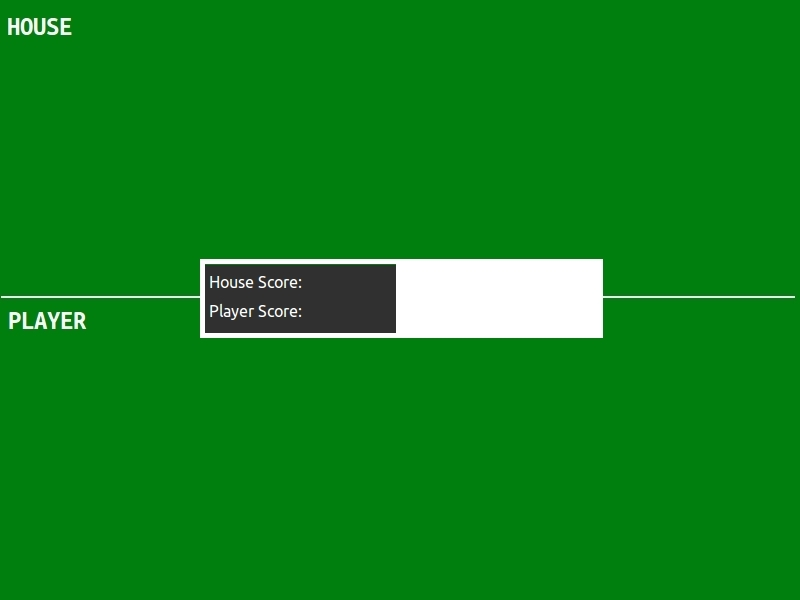
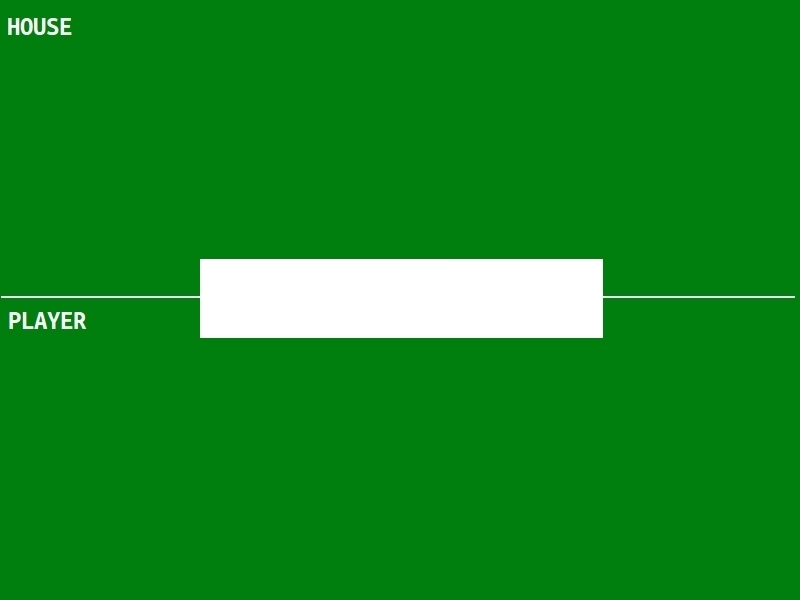
poker - finalized betting ui

Changed region(s): [[0.25, 0.42, 0.5, 0.57]]

diff --git a/Poker/Poker.java b/Poker/Poker.java
@@ -2,27 +2,28 @@ import javax.swing.*;
 import java.awt.*;
 import java.awt.event.*;
 
-public class Poker extends JPanel implements MouseListener,ActionListener{
+public class Poker extends JPanel implements MouseListener{
 
 	static final long serialVersionUID = 1;
 
 	private ImageIcon background = new ImageIcon(getClass().getResource("images/background.jpg"));
-	private ImageIcon b_ride = new ImageIcon(getClass().getResource("images/hit.jpg"));
-	private ImageIcon b_fold = new ImageIcon(getClass().getResource("images/stay.jpg"));
+	private ImageIcon b_ride = new ImageIcon(getClass().getResource("images/ride.jpg"));
+	private ImageIcon b_fold = new ImageIcon(getClass().getResource("images/fold.jpg"));
 
+	private ImageIcon b_rules = new ImageIcon(getClass().getResource("images/b_rules.jpg"));
+	private ImageIcon overlay = new ImageIcon(getClass().getResource("images/rules.png"));
 	private ImageIcon b_start = new ImageIcon(getClass().getResource("images/start.jpg"));
-	private ImageIcon b_win = new ImageIcon(getClass().getResource("images/win.jpg"));
-	private ImageIcon b_lose = new ImageIcon(getClass().getResource("images/lose.jpg"));
+	private ImageIcon b_again = new ImageIcon(getClass().getResource("images/playagain.jpg"));
 
 	Deck deck = new Deck();
 	Hand player = new Hand(true);
 	Hand house = new Hand(false);
-	boolean winner = false, stay = false;
+	boolean winner = false;
 	boolean start_active = true; //determine if start button is active
+	boolean rules = false; //for toggling rules overlay
 	int cash = 100,
-		ante = 10,
+		ante = 0,
 		call = 0;
-	Timer t;
 
 	Poker(){
 		player.setDeck(deck);
@@ -31,41 +32,27 @@ public class Poker extends JPanel implements MouseListener,ActionListener{
 		setSize(800,600);
 		addMouseListener(this);
 		setVisible(true);
-
-		t = new Timer(800,this);
 	}
 
 	public void paintComponent(Graphics g){
 		background.paintIcon(this,g,0,0);
 		player.paint(this,g,false);
-		house.paint(this,g,!stay);
-
-		//print scores at ~ 335,270 and 335,300
-		g.setColor(Color.WHITE);
-		g.setFont(new Font(Font.SANS_SERIF,Font.BOLD,18));
-		g.drawString(player.getScore()+"",335,320);
-		if(stay)
-			g.drawString(house.getScore()+"",335,290);
-		else
-			g.drawString("???",335,290);
+		house.paint(this,g,!winner);
 
 		//print cash
 		g.setFont(new Font(Font.SANS_SERIF,Font.BOLD,24));
+		g.setColor(Color.BLACK);
 		g.drawString("Cash: $"+cash,20,580);
 		g.drawString("Ante: $"+ante,300,580);
 		g.drawString("Call: $"+call,580,580);
 
-		//if game is won, print result
+		b_rules.paintIcon(this,g,205,265);
+		if(rules)
+			overlay.paintIcon(this,g,0,0);
+
+		//if hand is finished, print play again button
 		if(winner){
-			if(player.getScore() > 21 || player.getScore() == house.getScore() ||
-					(player.getScore() < house.getScore() && house.getScore() <= 21)){
-				b_lose.paintIcon(this,g,400,265);
-				finish(false);
-			}
-			else{
-				b_win.paintIcon(this,g,400,265);
-				finish(true);
-			}
+			b_again.paintIcon(this,g,400,265);
 		}
 		else{
 			//print buttons at 400,265 and 500,265
@@ -80,6 +67,7 @@ public class Poker extends JPanel implements MouseListener,ActionListener{
 	//call this instead of start() to start
 	private void bet(){
 		boolean valid = false;
+
 		if(cash > 0){
 			while(!valid){
 				try{
@@ -97,6 +85,8 @@ public class Poker extends JPanel implements MouseListener,ActionListener{
 						"Invalid",JOptionPane.OK_CANCEL_OPTION);
 				}
 			}
+
+			cash -= ante;
 		}
 		else{
 			JOptionPane.showConfirmDialog(this,"You are out of money. Please get lost :-)",
@@ -106,41 +96,40 @@ public class Poker extends JPanel implements MouseListener,ActionListener{
 		start();
 	}
 
-	private void start(){
-		t.start();
-		
+	private void start(){		
 		winner = false;
-		stay = false;
 
 		deck.shuffle();
 
 		player.reset();
 		house.reset();
 
-		player.drawCard();
-		player.drawCard();
-		player.drawCard();
-		house.drawCard();
-		house.drawCard();
-		house.drawCard();
+		player.drawCard(3);
+		house.drawCard(3);
 
-		System.out.println(player.getScore());
+		//System.out.println(player.getScore());
 
 		repaint();
 	}
 
-	//player is true if the player won
-	private void finish(boolean p){
-		if(p)
-			cash += ante;
-		else
-			cash -= ante;
-		ante = 0;
-		t.stop();
-	}
+	private void finish(){
+		winner = true;
+		if(house.getScore() < 12){
+			ante = 2 * ante;
+		}
+		else if(player.getScore() == house.getScore()){
 
-	public void actionPerformed(ActionEvent e){
-		repaint();
+		}
+		else if(player.getScore() > house.getScore()){
+			ante = ante * 2;
+			call = call * 2;
+		}
+		else if(player.getScore() < house.getScore()){
+			ante = 0;
+			call = 0;
+		}
+		//else.. hands are equal, so do nothing.. ante and call will be 
+		//returned when you restart
 	}
 
 	public void mousePressed(MouseEvent e){
@@ -153,33 +142,47 @@ public class Poker extends JPanel implements MouseListener,ActionListener{
 			bet();
 			start_active = false;
 		}
-		//clicked hit
+		//clicked ride
 		else if(e.getX() > 400 &&
 				e.getX() < (400 + b_ride.getIconWidth()) &&
 				e.getY() > 265 &&
 				e.getY() < (265 + b_ride.getIconHeight())&&
-				!stay){
-			player.drawCard();
-			if(player.getScore() > 21)
-				stay = true;
+				!winner){
+			call = ante;
+			cash -= call;
+			finish();
 			repaint();
 		}
-		//clicked stay
+		//clicked fold
 		else if(e.getX() > 500 &&
 				e.getX() < (500 + b_fold.getIconWidth()) &&
 				e.getY() > 265 &&
 				e.getY() < (265 + b_fold.getIconHeight())&&
-				!stay){
-			stay = true;
+				!winner){
+			ante = 0;
+			finish();
 			repaint();
 		}
-		//clicked win/lose
+		//clicked play again
 		else if(e.getX() > 400 &&
-				e.getX() < (400 + b_win.getIconWidth()) &&
+				e.getX() < (400 + b_again.getIconWidth()) &&
 				e.getY() > 265 &&
-				e.getY() < (265 + b_win.getIconHeight())&&
+				e.getY() < (265 + b_again.getIconHeight())&&
 				winner){
+			cash += ante;
+			ante = 0;
+			cash += call;
+			call = 0;
+			repaint();
 			bet();
+		}
+		//clicked rules (205,265)
+		else if(e.getX() > 205 &&
+				e.getX() < (400 + b_rules.getIconWidth()) &&
+				e.getY() > 265 &&
+				e.getY() < 265 + b_rules.getIconHeight()){
+			rules = !rules;
+			repaint();
 		}
 	}
 	public void mouseReleased(MouseEvent e){}

diff --git a/Poker/Hand.java b/Poker/Hand.java
@@ -13,7 +13,7 @@ public class Hand{
 	private boolean player;
 
 	public Hand(boolean player){
-		cards = new Card[10];
+		cards = new Card[5];
 		deck = new Deck();
 		size = 0;
 		aces = 0;
@@ -28,7 +28,7 @@ public class Hand{
 	}
 
 	public void reset(){
-		cards = new Card[10];
+		cards = new Card[5];
 		size = 0;
 		aces = 0;
 	}
@@ -37,23 +37,29 @@ public class Hand{
 	public void paint(JPanel j,Graphics g,boolean hole){
 		//paint each card. card: 115,175.. 2px margin is fine
 		if(size > 0)	
-			for(int i=0;i<size;i++)
+			for(int i=0;i<size;i++){
 				cards[i].paint(j,g,20+(i*117),y,hole);
+			}
+				
 	}
 
 	public void setDeck(Deck deck){
 		this.deck = deck;
 	}
 
-	public void drawCard(){
-		if(size < cards.length)
-			cards[size] = deck.drawCard();
-		else{
-			//array out of bounds, so expand it, and then try again
-			expand();
-			drawCard();
+	public void drawCard(int n){
+
+		for(int i=0;i<n;i++){
+			if(size < cards.length){
+				cards[size] = deck.drawCard();
+				size ++;
+			}
+			else{
+				//array out of bounds, so expand it, and then try again
+				expand();
+				drawCard(n-i);
+			}
 		}
-		size ++;
 		sort();
 	}
 
